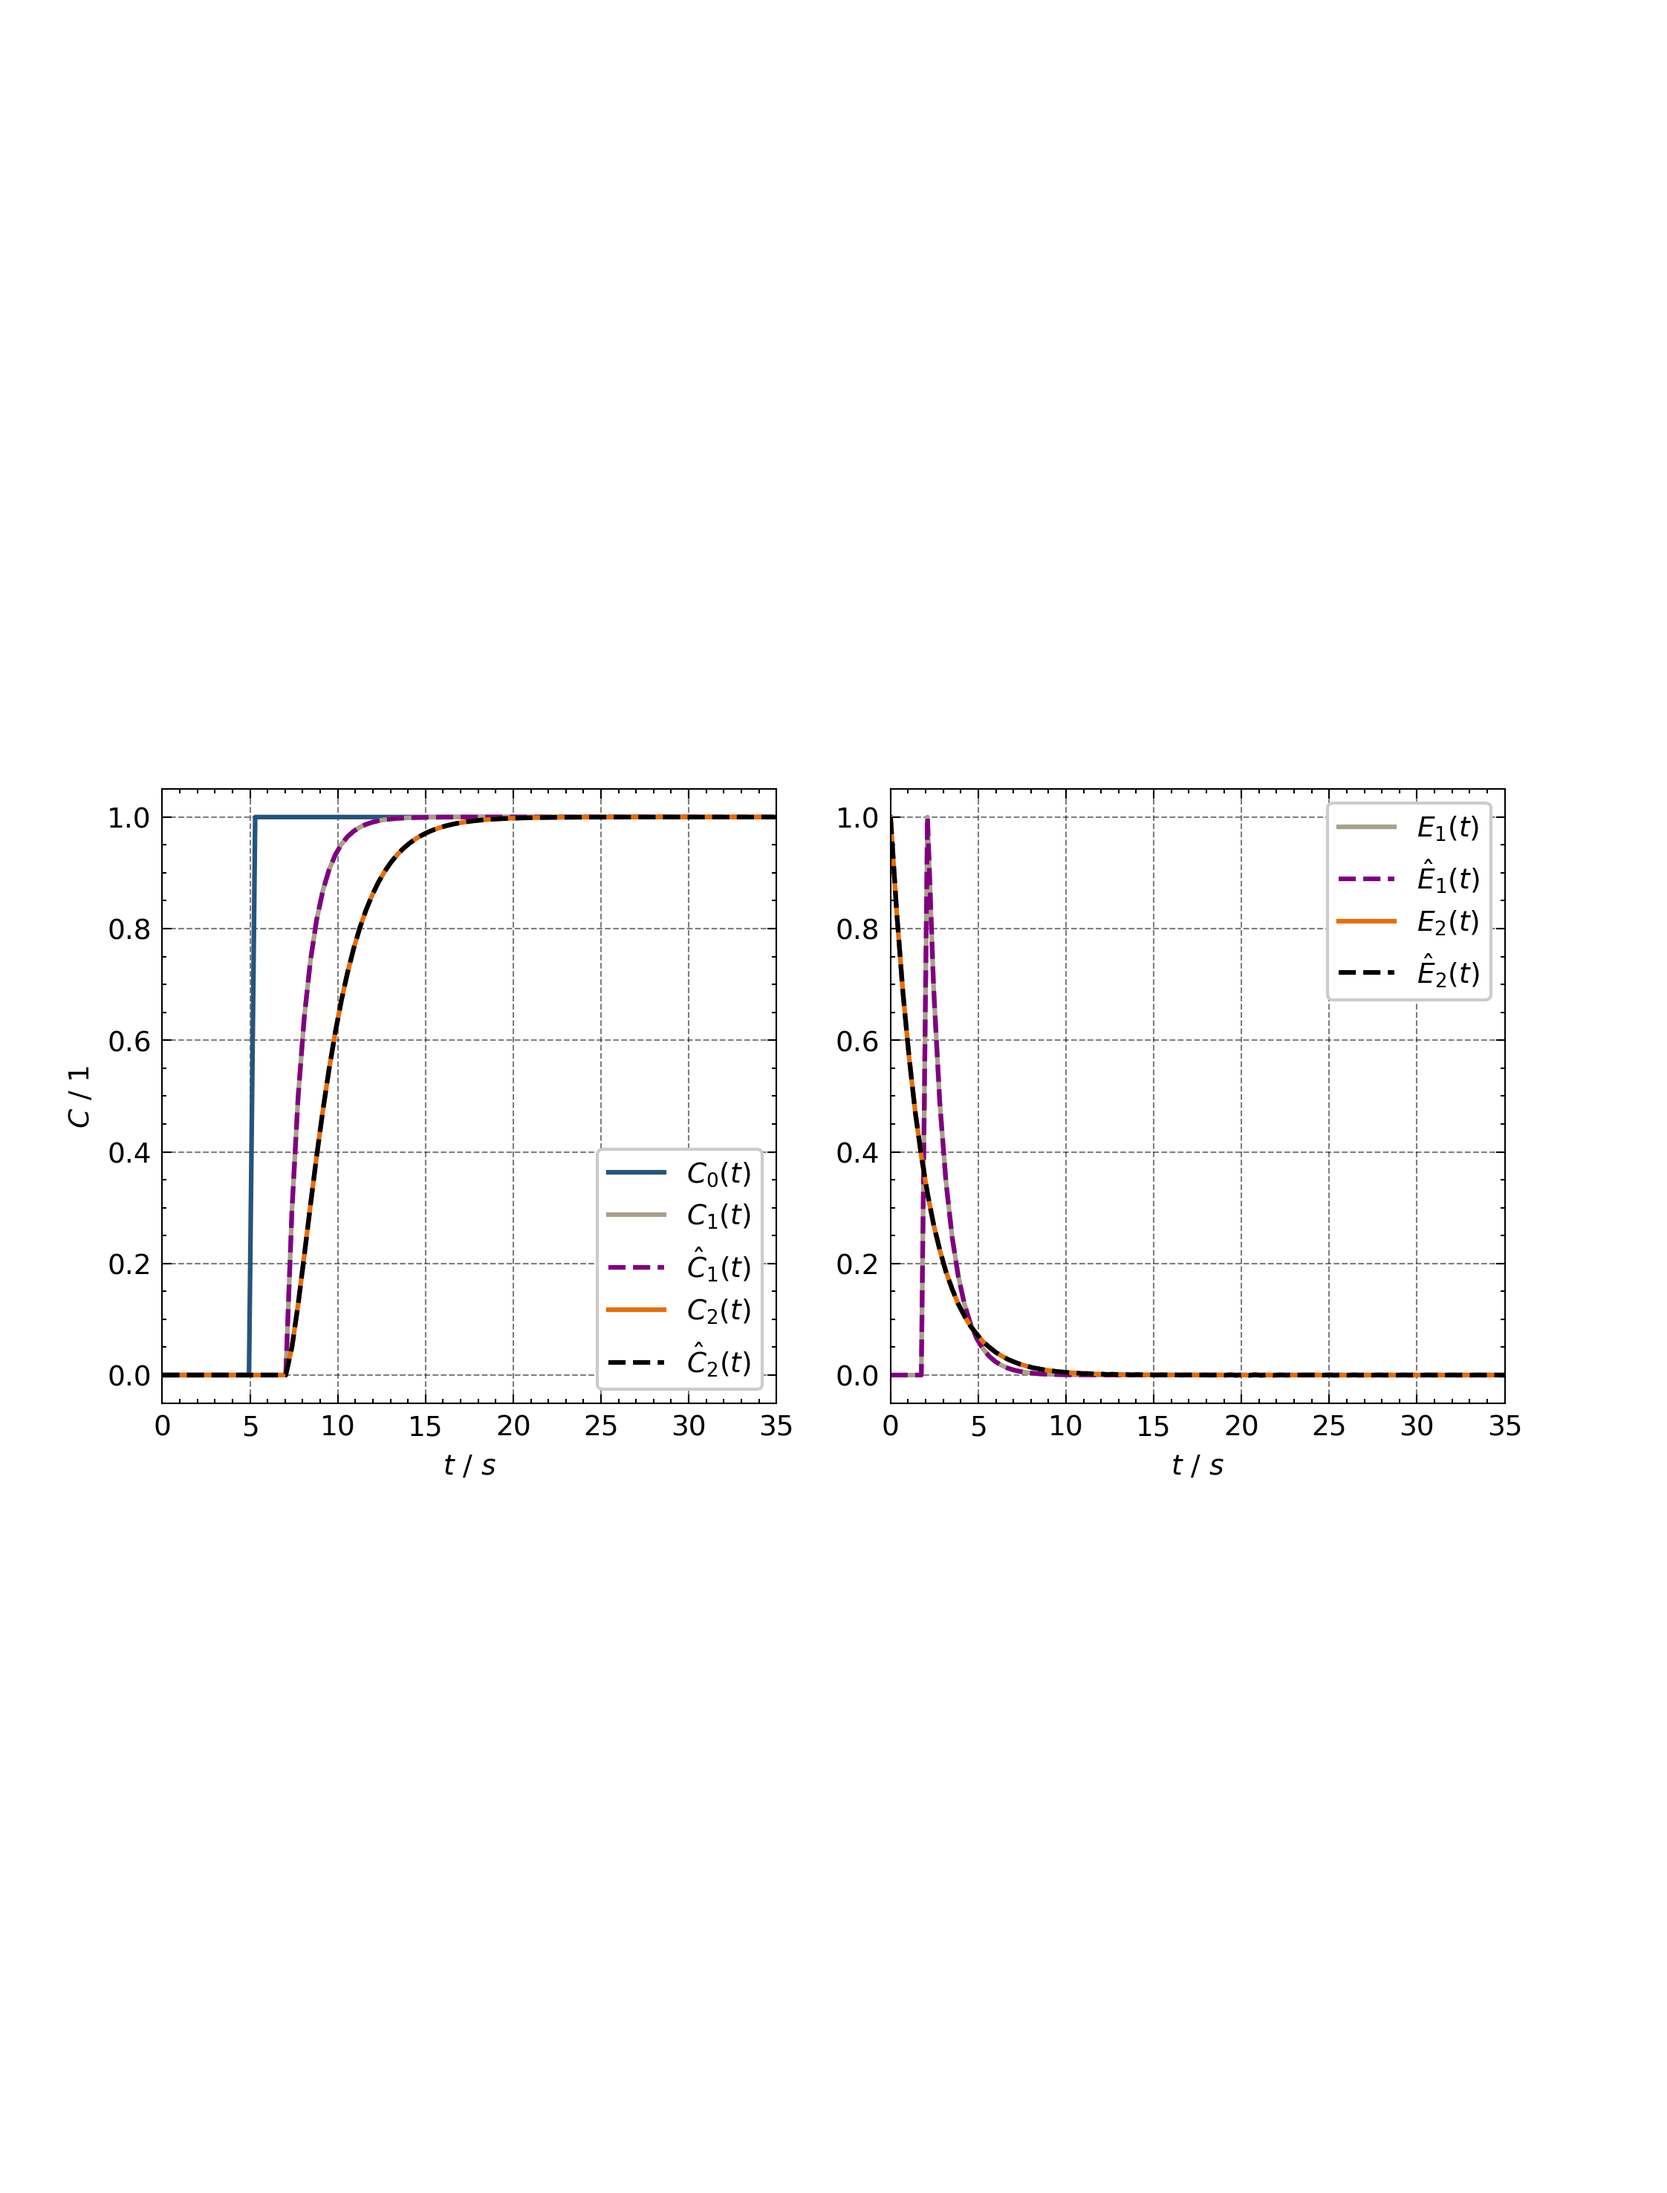
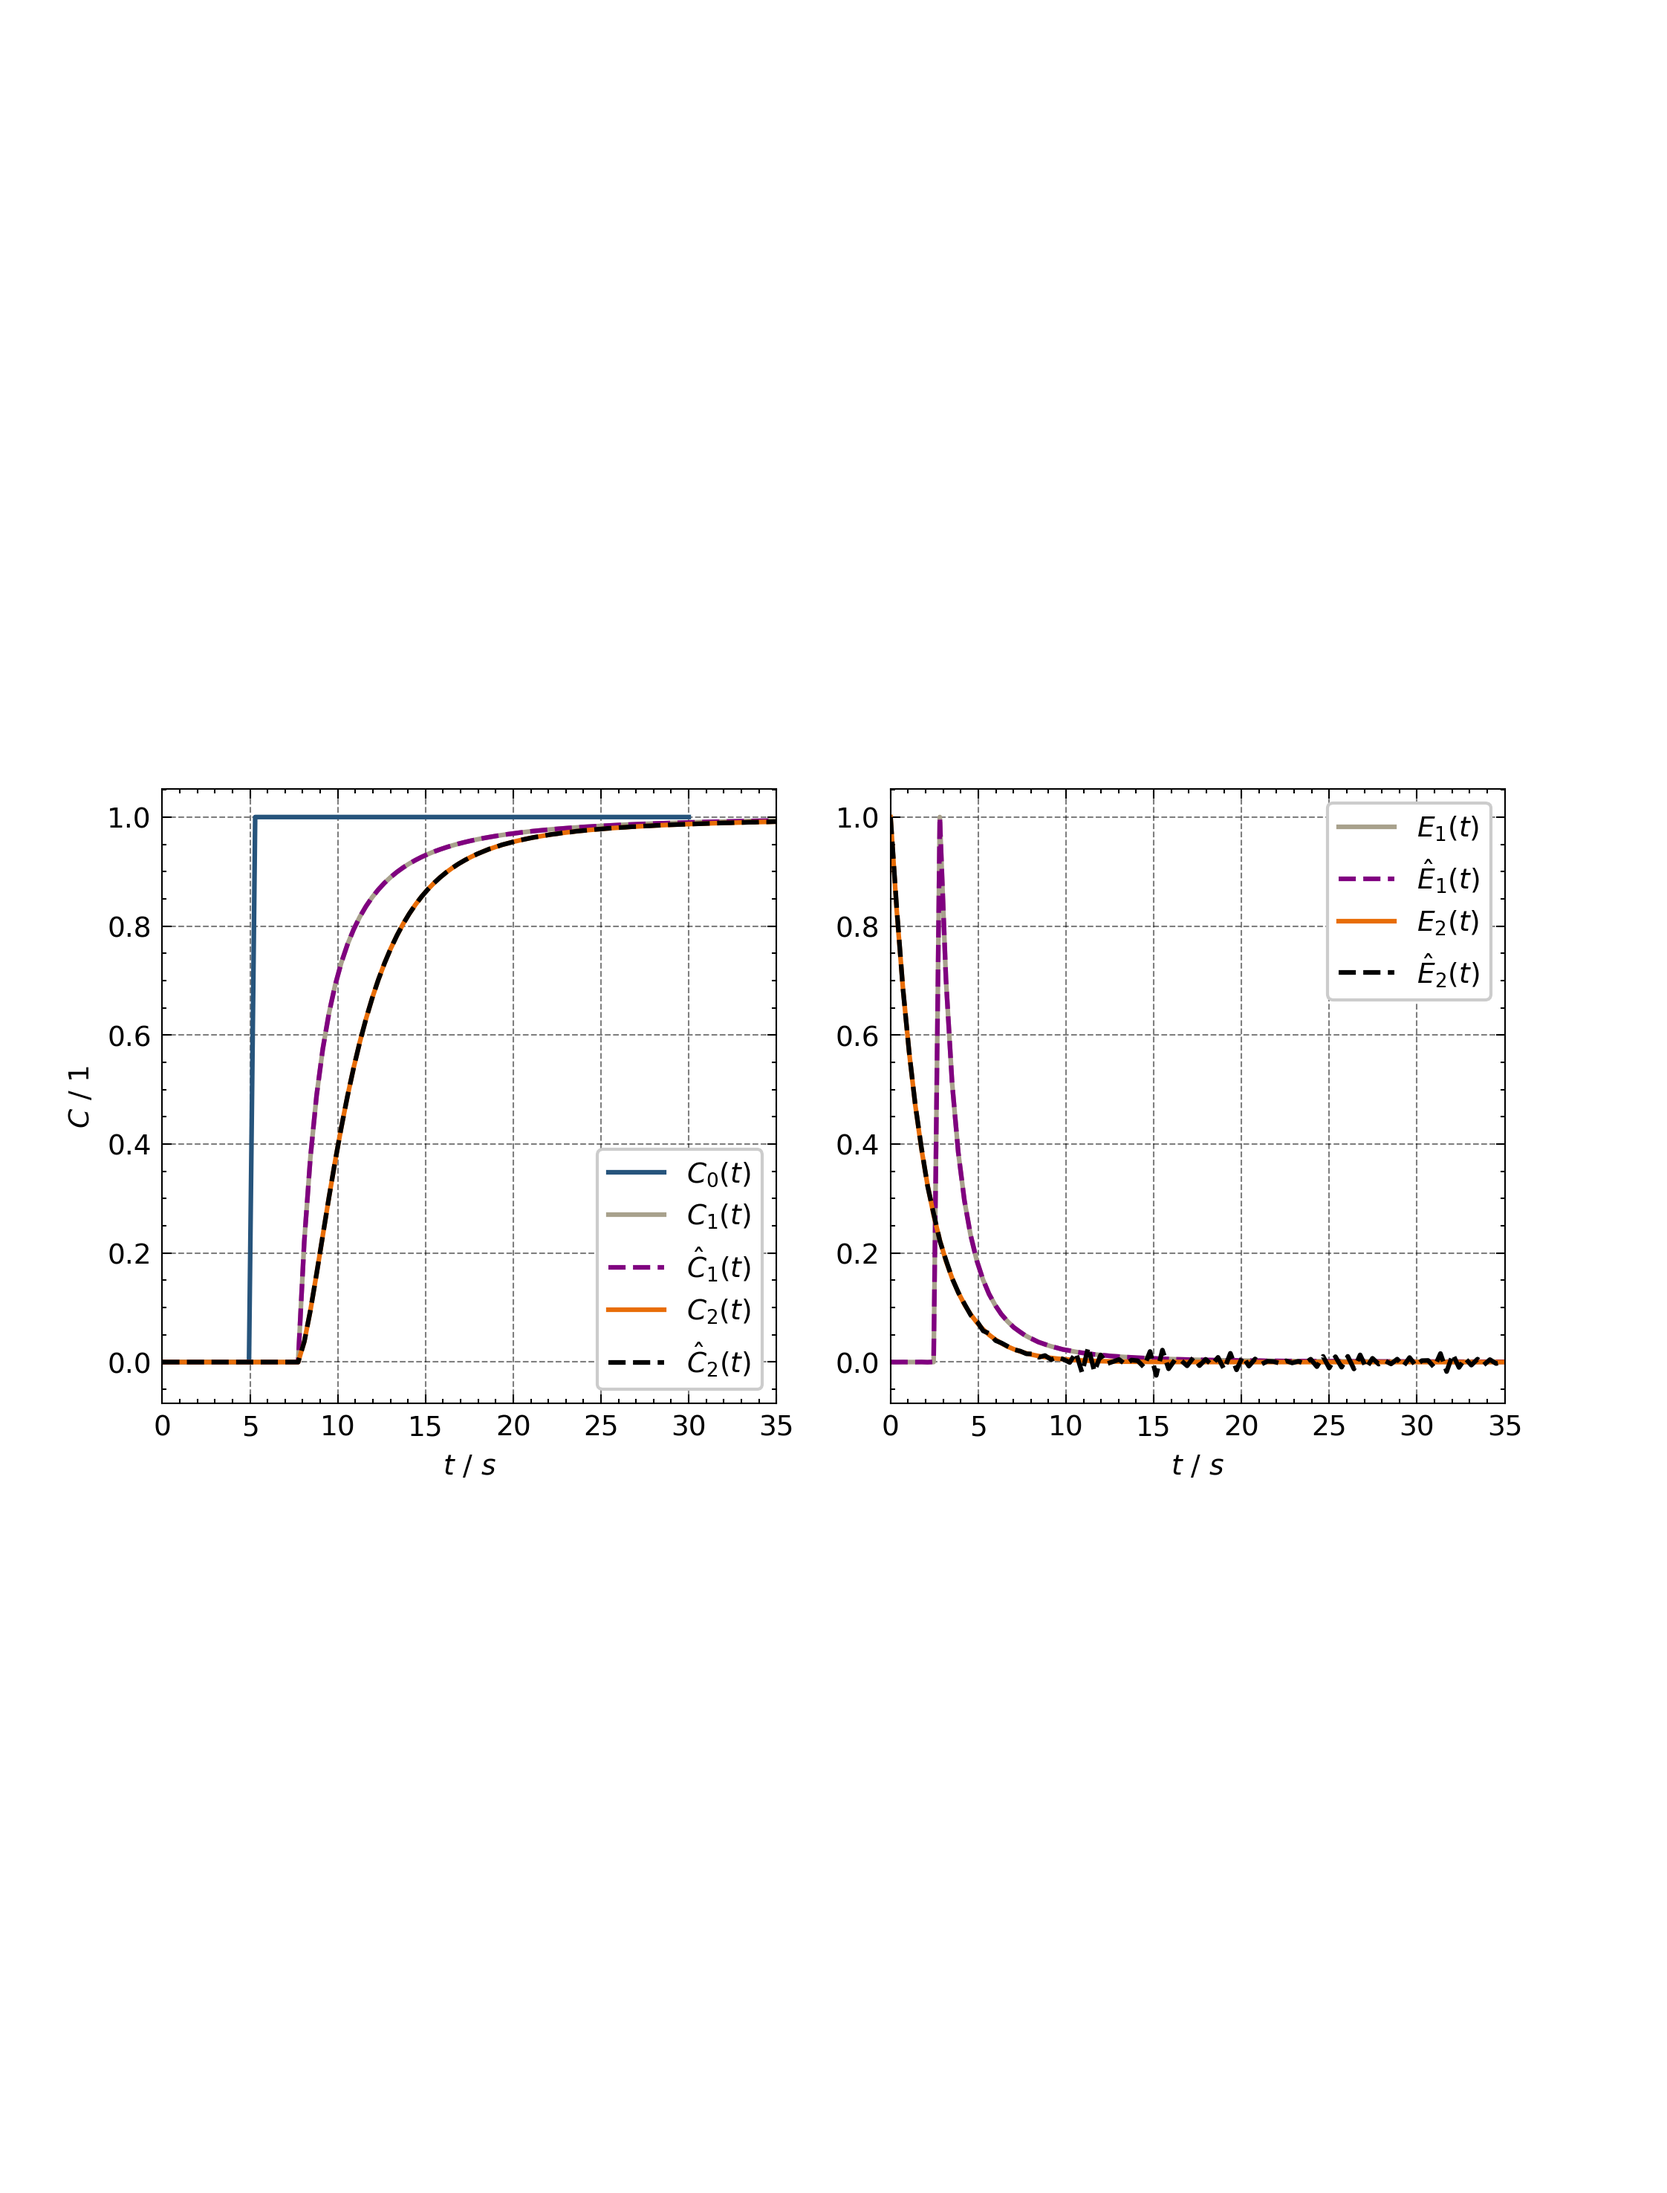
2ndlayer lit dynamic supporting

diff --git a/Experiments/Preliminary/2_nd_Layer_Convolution/2nd_Layer_Lam_Ch.py b/Experiments/Preliminary/2_nd_Layer_Convolution/2nd_Layer_Lam_Ch.py
@@ -26,7 +26,7 @@ from ICIW_Plots import make_square_ax, cm2inch
 tau_l = 5.0
 
 epoch_1=17000
-epoch_2=800000
+epoch_2=200000
 epoch_3=epoch_1
 learning_rate=1e-2
 disc_n_1_out=200
@@ -118,15 +118,15 @@ def laminarflow(t: npt.NDArray[np.float64], tau: float) -> npt.NDArray[np.float6
     E_laminar = np.zeros_like(t)
     E_laminar[t >= tau / 2] = (tau**2) / (2 * (t[t >= tau / 2]**3))
     return E_laminar
-t_lam=t_adl
-t_l = np.linspace(0, t_lam, n_1_out, endpoint=True)  
+#t_lam=t_adl
+t_l = np.linspace(0, t_adl, n_1_out, endpoint=True)  
 c_0_l = np.zeros_like(t_l)
 c_0_l[t_l > 5] = 1  
 E_laminar = laminarflow(t_l, tau_l)
 E_laminar = E_laminar / E_laminar.max()
 c_out_l_full = np.convolve(c_0_l, E_laminar / np.sum(E_laminar), mode="full")
 t_conv_l_full = np.linspace(t_l[0] + t_l[0], t_l[-1] + t_l[-1], len(c_out_l_full))
-valid_indices = t_conv_l_full <= t_lam
+valid_indices = t_conv_l_full <= t_adl
 t_conv_l = t_conv_l_full[valid_indices]
 c_out_l = c_out_l_full[valid_indices]
 t_conv_Adler_out = t_conv_l
@@ -152,8 +152,8 @@ valid_indices = t_conv_l_full_2 <= t_ch
 t_conv_l_2 = t_conv_l_full_2[valid_indices]
 c_out_l_2 = c_out_l_full_2[valid_indices]
 
-t_conv_Adler = t_conv_l
-c_out_Adler = c_out_l
+t_conv_Adler = t_conv_l_2
+c_out_Adler = c_out_l_2
 
 def Cholete(t: npt.NDArray[np.float64], alpha: float, beta: float, tau: float, g: float) -> npt.NDArray[np.float64]: 
     print(f"tau = {tau}")
@@ -492,7 +492,7 @@ axs[0, 0].set_xlim((0, 35))
 axs[0, 1].set_xlim((0, 35)) 
 axs[0, 0].legend(loc="best")
 axs[0, 1].legend(loc="best")
-plt.savefig(os.path.join(base_dir, f"ad_ch.png"), dpi=300)
+plt.savefig(os.path.join(base_dir, f"ad_ch_E0.png"), dpi=300)
 plt.show()
 
 
